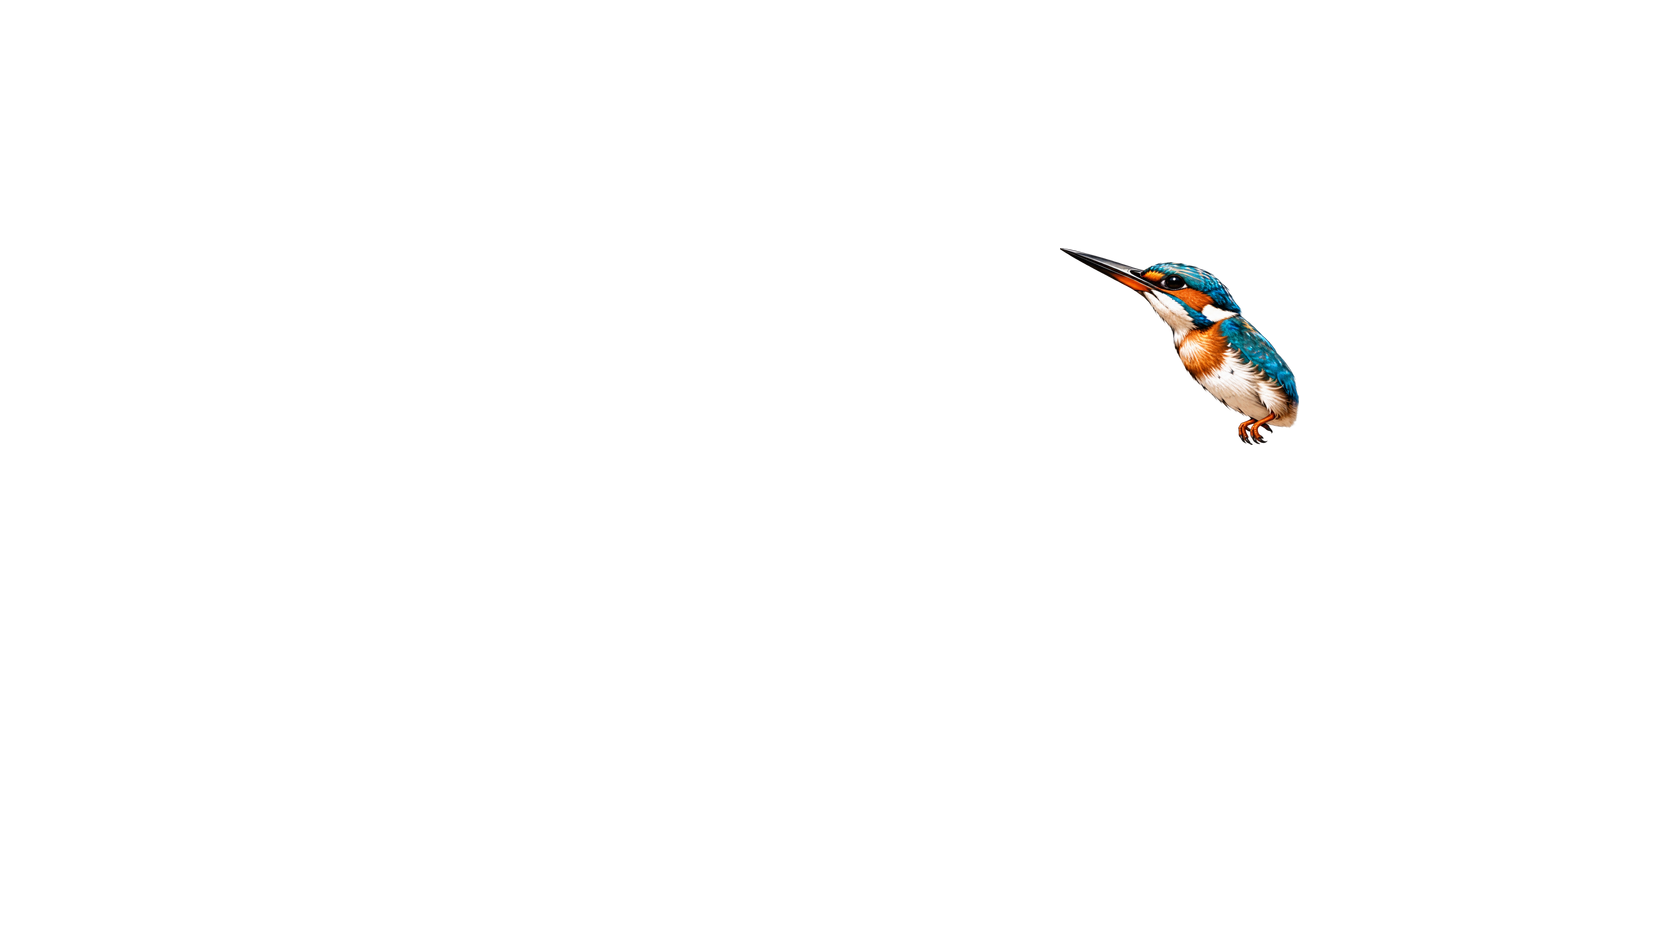
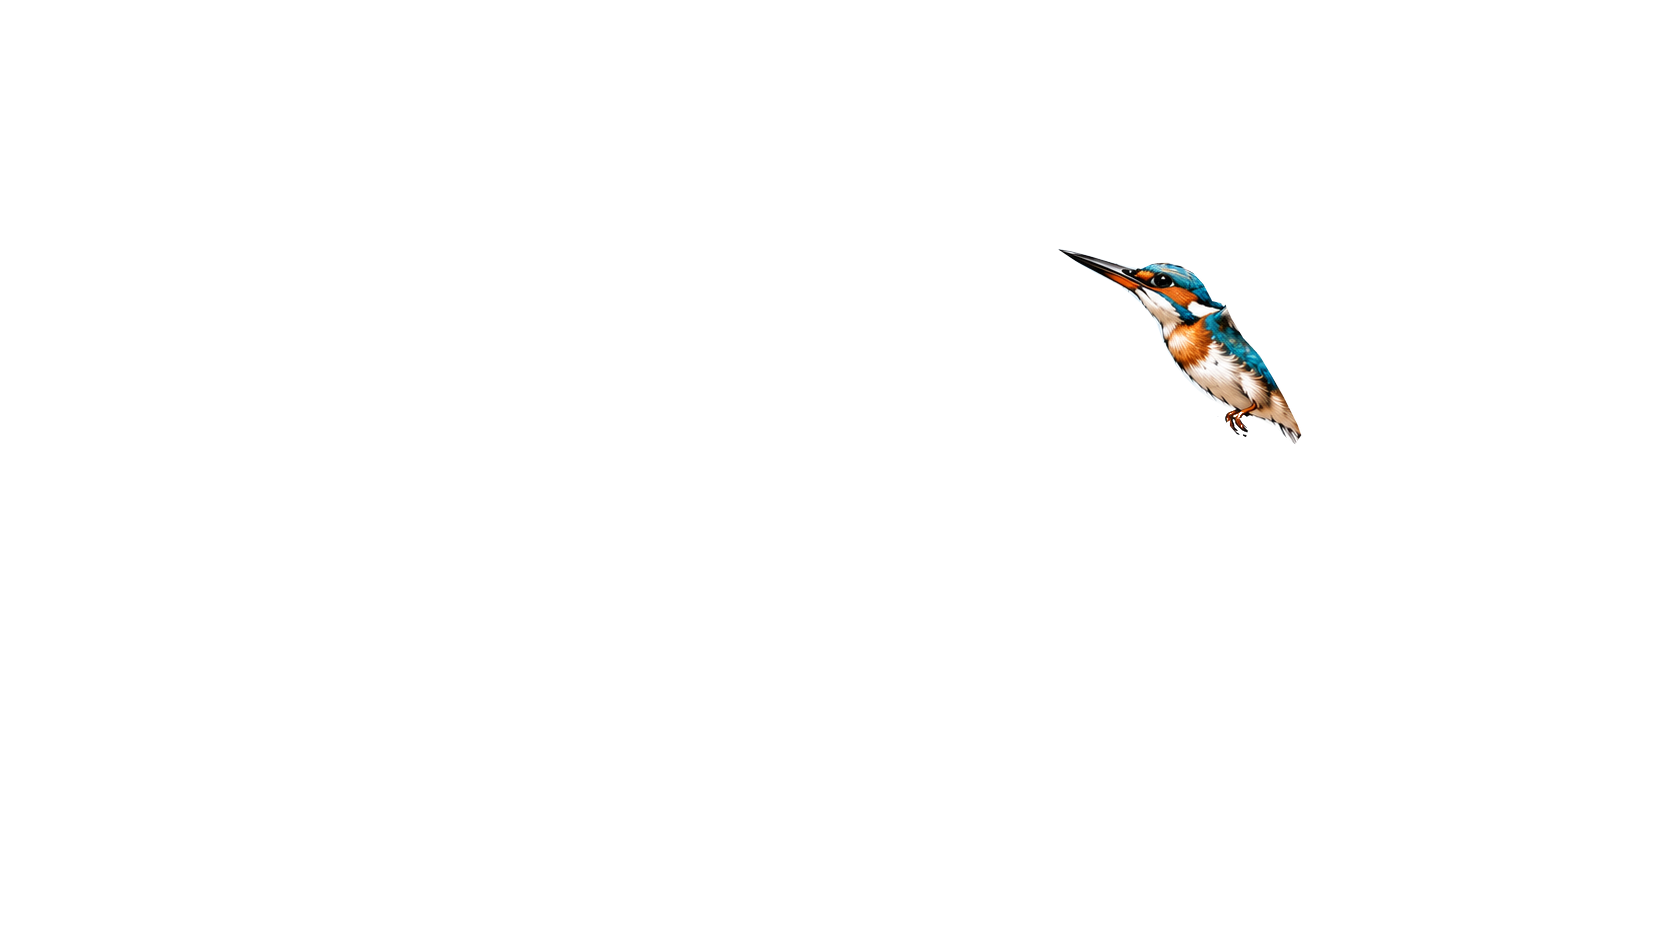
feat(landing): hero bird = new pencil wings with the previous coloured body

Changed region(s): [[0.6539, 0.2771, 0.7784, 0.4926], [0.6228, 0.2463, 0.6539, 0.2771]]

diff --git a/frontend/src/app/[locale]/(marketing)/_components/HeroScene.tsx b/frontend/src/app/[locale]/(marketing)/_components/HeroScene.tsx
@@ -25,7 +25,7 @@ const DURATION_MS = 22800;
 const CAMERA_MS = 3960;
 const AIM = { x: 1227, y: 496 };
 // bump when the designer delivers corrected artwork, so no browser keeps an older cached copy
-const REV = "hero-2026-10-14b";
+const REV = "hero-2026-10-14c";
 const src = (name: string) => `/landing/hero-final/${name}.webp?v=${REV}`;
 
 const clamp01 = (x: number) => Math.max(0, Math.min(1, x));
